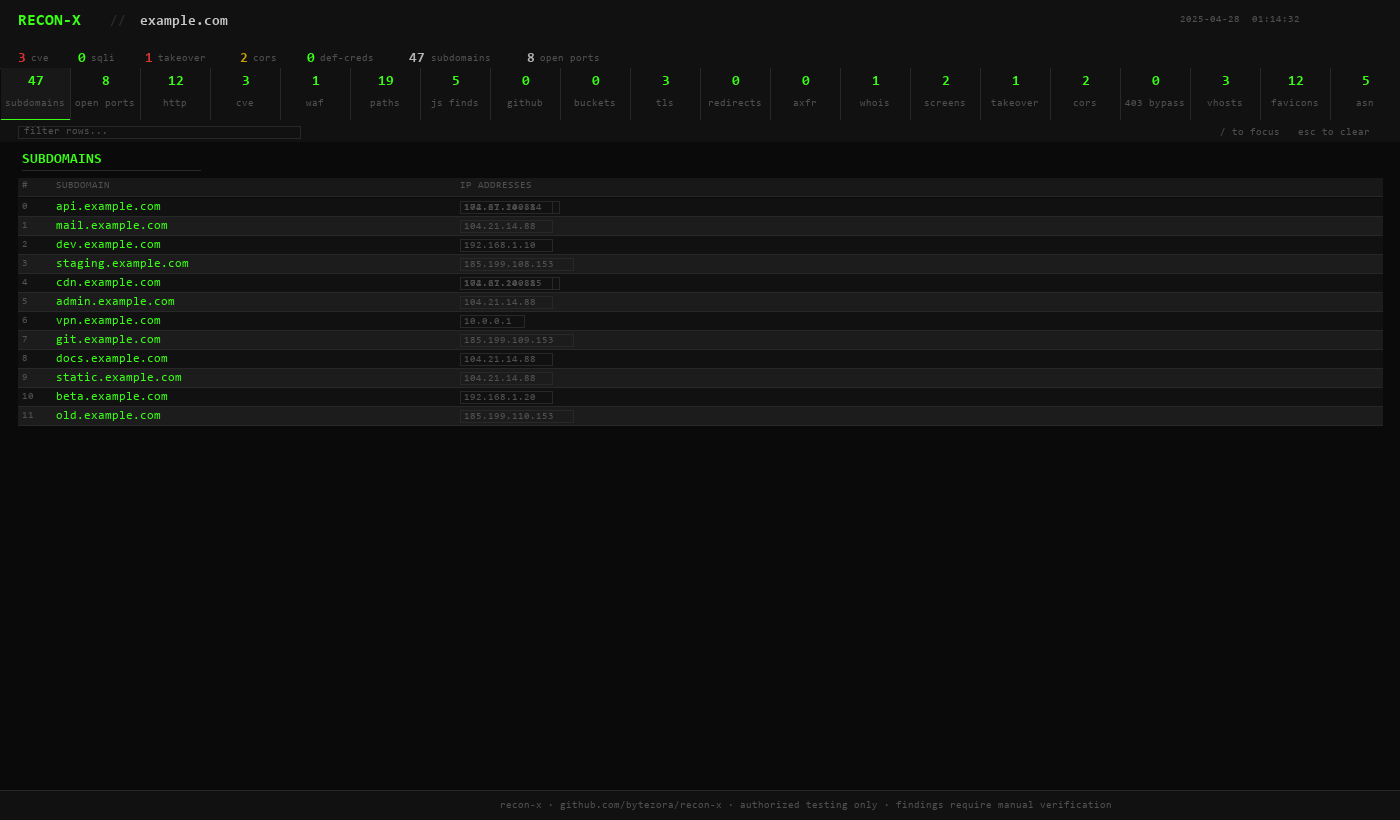
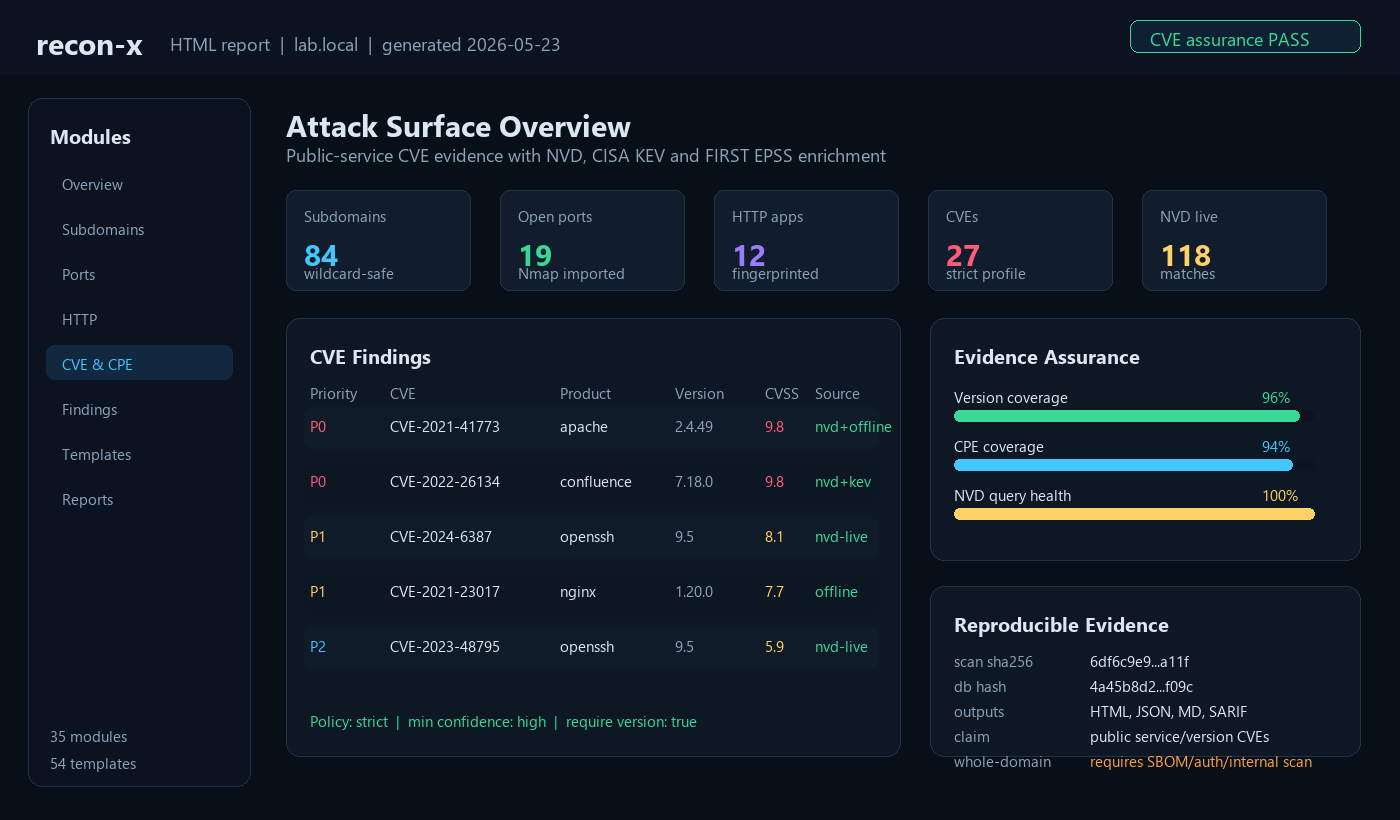
docs: refresh README screenshots and stats

diff --git a/README.md b/README.md
@@ -19,23 +19,19 @@
 
 > Findings are indicators, not confirmed vulnerabilities. Scan only authorized targets.
 
-![Terminal](assets/terminal.png)
+<p align="center">
+  <img src="assets/terminal.png" alt="recon-x terminal CVE assurance workflow" width="960"/>
+  <br/>
+  <sub>High-precision CVE workflow with Nmap XML import, live NVD enrichment and public-service assurance.</sub>
+</p>
 
 ---
 
-## Highlights
-
-| Area | Capability |
-|------|------------|
-| Discovery | Passive OSINT, subdomain brute-force, vhost discovery, ASN, WHOIS, Wayback and Shodan enrichment |
-| Network | TCP ports, banner grabbing, Nmap XML import, HTTP probing, TLS checks and screenshots |
-| Web checks | CORS, open redirect, SQLi, XSS, SSRF, LFI, XXE, Command Injection, JWT and Host Header Injection |
-| CVE intelligence | Offline signatures, live NVD enrichment, CISA KEV, FIRST EPSS, CPE fingerprints and strict precision profiles |
-| Evidence | CVE proof mode against ground truth and real-domain assurance reports for public service/version CVEs |
-| Reporting | Self-contained HTML, JSON, Markdown, SARIF and scan-to-scan diffing |
-
 ## Contents
 
+- [Highlights](#highlights)
+- [Current Snapshot](#current-snapshot)
+- [Screenshots](#screenshots)
 - [Install](#install)
 - [Usage](#usage)
 - [Flags](#flags)
@@ -45,6 +41,37 @@
 - [Config file](#config-file)
 - [Documentation](#documentation)
 - [Safety](#safety)
+
+## Highlights
+
+| Area | Capability |
+|------|------------|
+| Discovery | Passive OSINT, subdomain brute-force, vhost discovery, ASN, WHOIS, Wayback and Shodan enrichment |
+| Network | TCP ports, banner grabbing, Nmap XML import, HTTP probing, TLS checks and screenshots |
+| Web checks | CORS, open redirect, SQLi, XSS, SSRF, LFI, XXE, Command Injection, JWT and Host Header Injection |
+| CVE intelligence | 177 offline CVE signatures across 48 products, live NVD enrichment, CISA KEV, FIRST EPSS and strict precision profiles |
+| Evidence | CVE proof mode against ground truth and real-domain assurance reports for public service/version CVEs |
+| Reporting | Self-contained HTML, JSON, Markdown, SARIF and scan-to-scan diffing |
+
+## Current Snapshot
+
+| Metric | Value |
+|--------|------:|
+| Recon modules | 35 |
+| Built-in YAML templates | 54 |
+| Offline CVE signatures | 177 |
+| CVE product families | 48 |
+| Default TCP ports | 17 |
+| Output formats | HTML, JSON, Markdown, SARIF |
+| CVE proof workflows | Ground-truth evidence + real-domain assurance |
+
+## Screenshots
+
+<p align="center">
+  <img src="assets/report.png" alt="recon-x HTML report CVE evidence dashboard" width="980"/>
+  <br/>
+  <sub>Self-contained HTML report with CVE priorities, CPE evidence, strict policy diagnostics and reproducibility data.</sub>
+</p>
 
 ## Install
 
@@ -201,7 +228,7 @@ cat targets.txt | recon-x
 
 ## CVE matching
 
-190+ offline signatures — Apache, nginx, OpenSSH, Tomcat, Spring, Log4j, Redis, WordPress, Jenkins, GitLab, Kubernetes, Fortinet, Citrix, F5 and more. Matches on banners, headers, response bodies and version-probe endpoints. Each detected service is normalized into a product/version/CPE fingerprint where possible.
+177 offline signatures across 48 product families — Apache, nginx, OpenSSH, Tomcat, Spring, Log4j, Redis, WordPress, Jenkins, GitLab, Kubernetes, Fortinet, Citrix, F5 and more. Matches on banners, headers, response bodies and version-probe endpoints. Each detected service is normalized into a product/version/CPE fingerprint where possible.
 
 Optional live enrichment (`-cve-live`) queries NVD CVE data by CPE and enriches matches with CISA Known Exploited Vulnerabilities and FIRST EPSS probability/percentile. Results include source, CPE, product, version, confidence and priority (`P0`–`P3`). The embedded database remains SHA-256 integrity-protected for offline use.
 
@@ -261,8 +288,6 @@ out.json      machine-readable, full results
 out.sarif     SARIF 2.1.0 — GitHub Code Scanning / Defect Dojo
 diff.txt      delta between two scans — new/resolved findings
 ```
-
-![Report](assets/report.png)
 
 ---
 